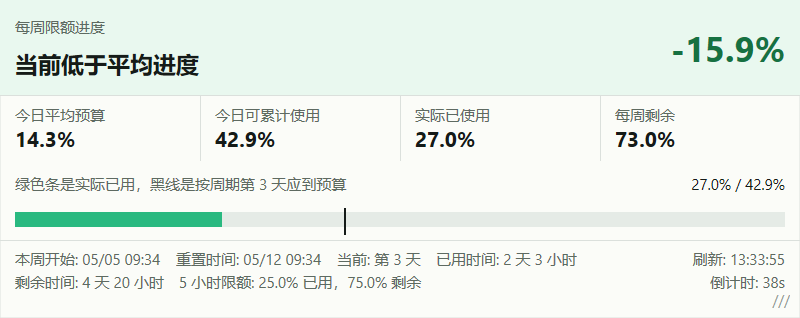
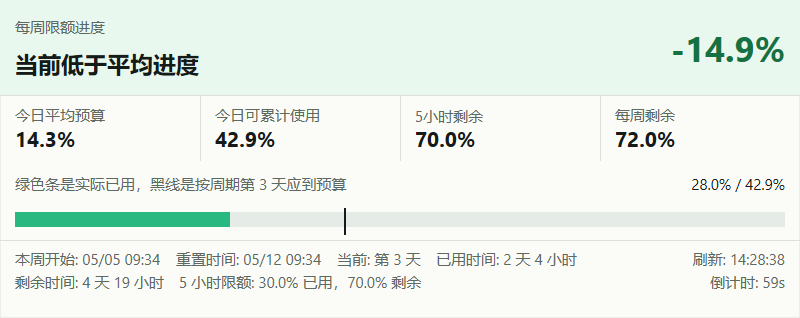
Fix quota labels and refresh README screenshots

diff --git a/src/AppBarWindow.cpp b/src/AppBarWindow.cpp
@@ -1001,7 +1001,7 @@ void AppBarWindow::PaintContent(const RECT& clientRect) {
         RECT dayValueRect = MakeRect(dayRect.left + innerPad, dayRect.top + ScaleForDpi(hwnd_, 24), dayRect.right - innerPad, dayRect.bottom - ScaleForDpi(hwnd_, 8));
         RECT weekLabelRect = MakeRect(weekRect.left + innerPad, weekRect.top + ScaleForDpi(hwnd_, 8), weekRect.right - innerPad, weekRect.top + ScaleForDpi(hwnd_, 24));
         RECT weekValueRect = MakeRect(weekRect.left + innerPad, weekRect.top + ScaleForDpi(hwnd_, 24), weekRect.right - innerPad, weekRect.bottom - ScaleForDpi(hwnd_, 8));
-        drawTextBlock(textFormatMetricLabel_.Get(), LocalizeText(L"Today", L"当日"), dayLabelRect, textSecondary,
+        drawTextBlock(textFormatMetricLabel_.Get(), LocalizeText(L"5 Hours", L"5小时"), dayLabelRect, textSecondary,
             DWRITE_TEXT_ALIGNMENT_LEADING, DWRITE_PARAGRAPH_ALIGNMENT_NEAR, DWRITE_WORD_WRAPPING_NO_WRAP, false);
         drawTextBlock(textFormatDelta_.Get(), dayValue, dayValueRect, textPrimary,
             DWRITE_TEXT_ALIGNMENT_LEADING, DWRITE_PARAGRAPH_ALIGNMENT_CENTER, DWRITE_WORD_WRAPPING_NO_WRAP, false);
@@ -1078,13 +1078,13 @@ void AppBarWindow::PaintContent(const RECT& clientRect) {
     const wchar_t* metricLabels[4] = {
         LocalizeText(L"Daily average budget", L"今日平均预算"),
         LocalizeText(L"Expected used today", L"今日可累计使用"),
-        LocalizeText(L"Actual used", L"实际已使用"),
+        LocalizeText(L"5-hour remaining", L"5小时剩余"),
         LocalizeText(L"Weekly remaining", L"每周剩余")
     };
     const std::wstring metricValues[4] = {
         FormatPercent(pace.dailyBudgetPercent),
         FormatPercent(pace.expectedUsedPercent),
-        FormatPercent(pace.actualUsedPercent),
+        FormatPercent(snapshot_.fiveHour.remainingPercent),
         FormatPercent(pace.weeklyRemainingPercent),
     };
     const int metricWidth = RectWidth(metricsRect) / 4;
